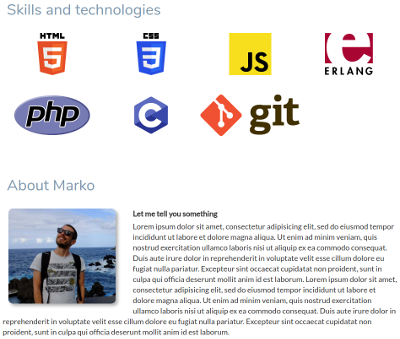
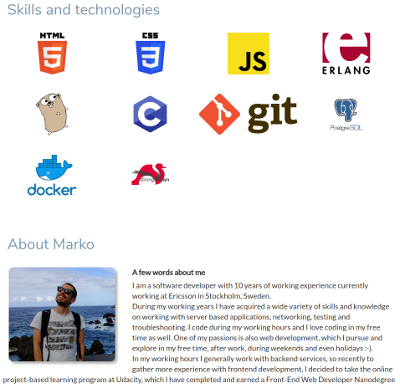
Add more skills.

diff --git a/js/resumeBuilder.js b/js/resumeBuilder.js
@@ -16,7 +16,10 @@ var bio = {
     "Erlang",
     "GO",
     "C",
-    "git"
+    "git",
+    "PostgreSQL",
+    "Docker",
+    "Strongswan"
   ],
   "skillsLogos": [
     "images/html5_logo.svg",
@@ -26,6 +29,9 @@ var bio = {
     "images/go_logo.png",
     "images/c_logo.svg",
     "images/git_logo.svg",
+    "images/postgresql_logo.png",
+    "images/docker_logo.png",
+    "images/strongswan_logo.png"
   ],
   "biopic": "images/me_naturalpools.png",
 

diff --git a/css/style.css b/css/style.css
@@ -187,7 +187,7 @@ h3+.education-entry {
 }
 
 .skills-logo {
-  width: 50px;
+  width: 60px;
 }
 
 .logo-container {
